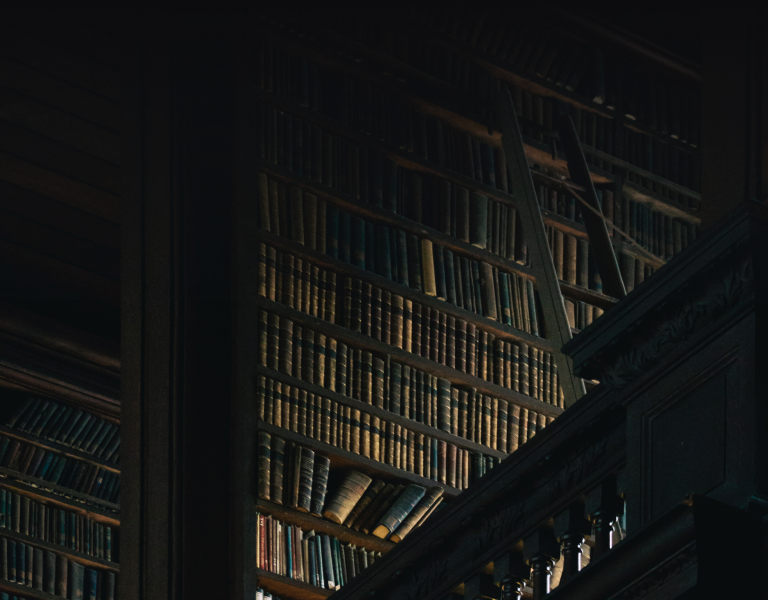
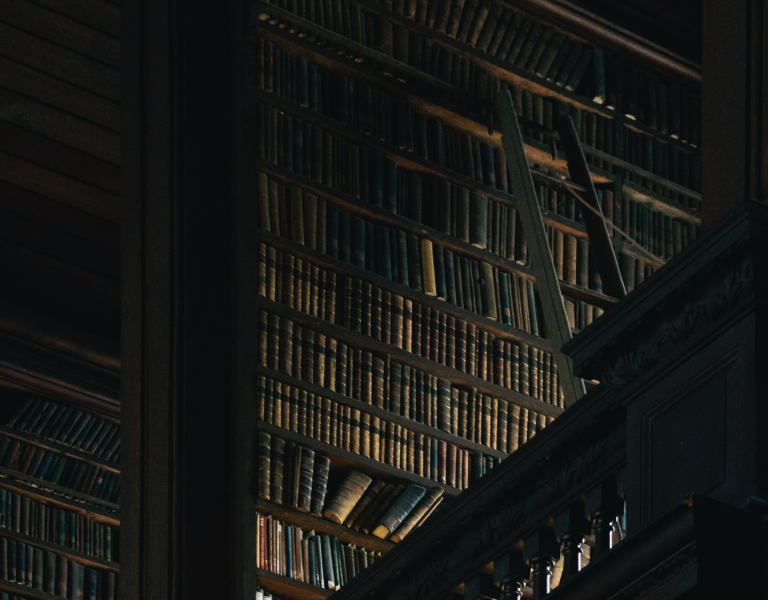
fix: viewport

diff --git a/library/style.css b/library/style.css
@@ -228,6 +228,7 @@ body {
 }
 
 .burger-lines span:nth-child(1) {
+    cursor: pointer;
     top: -10px;
 }
 
@@ -310,17 +311,19 @@ body {
 }
 
 .container {
+    width: 100%;
     min-height: calc(100vh - 250px);
 }
 
 .section-banner {
     width: 100%;
     height: 600px;
-    background: url(assets/Welcome.png) center;
+    background: url(assets/Welcome.png) right center no-repeat;
     background-size: cover;
 }
 
 .banner {
+    width: 100%;
     height: 300px;
     flex-shrink: 0;
     background: linear-gradient(180deg, #0C0C0E 0%, #0C0C0E 0.01%, rgba(18, 18, 21, 0.10) 100%) center center;
@@ -1129,7 +1132,7 @@ body {
     color: var(--color-white);
 }
 
-@media screen and (max-width: 1430px) {
+@media (max-width: 1430px) {
     .about-2 {
         margin-right: 0;
     }
@@ -1156,13 +1159,13 @@ body {
     }
 }
 
-@media screen and (max-width: 1310px) {
+@media (max-width: 1310px) {
     .card-item {
         margin-right: 100px;
     }
 }
 
-@media screen and (max-width: 1272px) {
+@media (max-width: 1272px) {
     .card-section {
         flex-direction: column;
         align-items: center;
@@ -1188,14 +1191,14 @@ body {
     }
 }
 
-@media screen and (max-width: 1240px) {
+@media (max-width: 1240px) {
     .contact-map {
         width: 100%;
         margin: 100px 16px 0 16px;
     }
 }
 
-@media screen and (max-width: 1102px) {
+@media (max-width: 1102px) {
     .find-section{
         justify-content: center;
     }
@@ -1213,7 +1216,7 @@ body {
     }
 }
 
-@media screen and (max-width: 1080px) {
+@media (max-width: 1080px) {
     .about-1{
         margin-right: -10px;
     }
@@ -1230,9 +1233,9 @@ body {
     }
 }
 
-@media screen and (max-width: 1024px) {
-    .wrapper{
-        width: 768px;
+@media (max-width: 1024px) {
+    .section-banner{
+        max-width: 100%;
     }
     .navbar {
         display: none;
@@ -1291,10 +1294,19 @@ body {
     }
 }
 
-@media screen and (width: 768px) {
-
+@media (max-width: 768px) {
+    .section-banner{
+        background-image: url(assets/Welcome-1.png) ;
+        background-repeat: no-repeat;
+        background-size: cover;
+        background-position: center;
+    }
 }
-
+@media (max-width: 730px) {
+    .season-item{
+        margin-right: 30px;
+    }
+}
 
 
 

diff --git a/library/main.js b/library/main.js
@@ -5,11 +5,7 @@ document.querySelector('.burger').addEventListener('click', () => {
     const burgerLines = document.querySelector('.burger-lines');
     const buggerClose = document.querySelector('.burger-close');
     if (burger.classList.contains('active')) {
-       if(window.screen.width > 978){
-            burgerList.style.right = '128px';
-        }else{
-            burgerList.style.right = '106px';
-        }
+        burgerList.style.right = '0';
         burgerList.style.top = '90px';
         burgerLines.style.display = 'none';
         buggerClose.style.display = 'block';

diff --git a/library/index.html b/library/index.html
@@ -2,6 +2,7 @@
 <html lang="en">
 <head>
     <meta charset="UTF-8">
+    <meta name="viewport" content="width=device-width, initial-scale=1.0">
     <link rel="apple-touch-icon" sizes="180x180" href="assets/apple-touch-icon.png">
     <link rel="icon" type="image/png" sizes="32x32" href="assets/favicon-32x32.png">
     <link rel="icon" type="image/png" sizes="16x16" href="assets/favicon-16x16.png">
